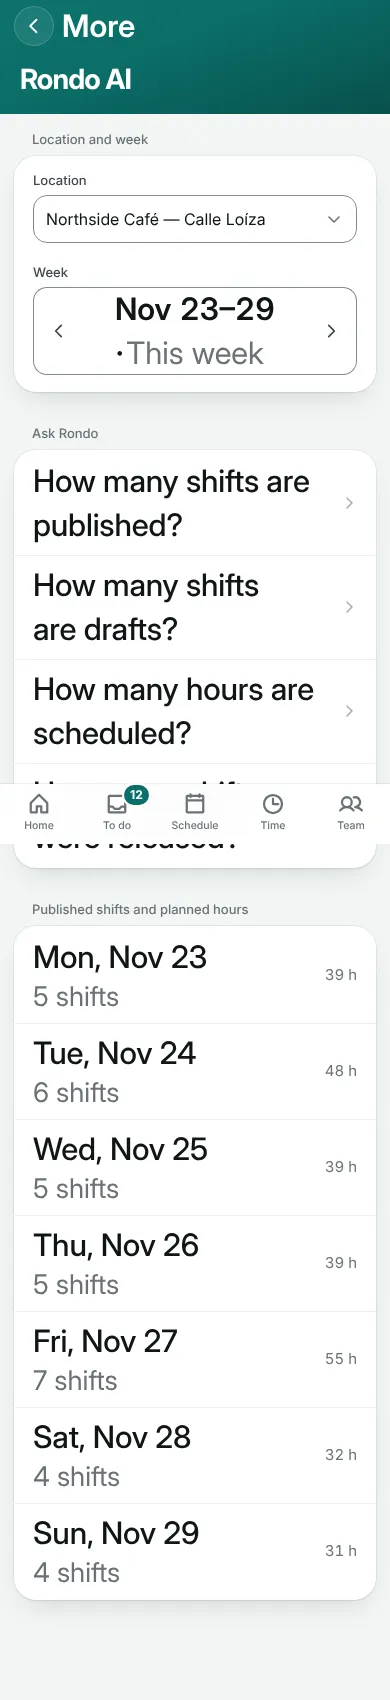
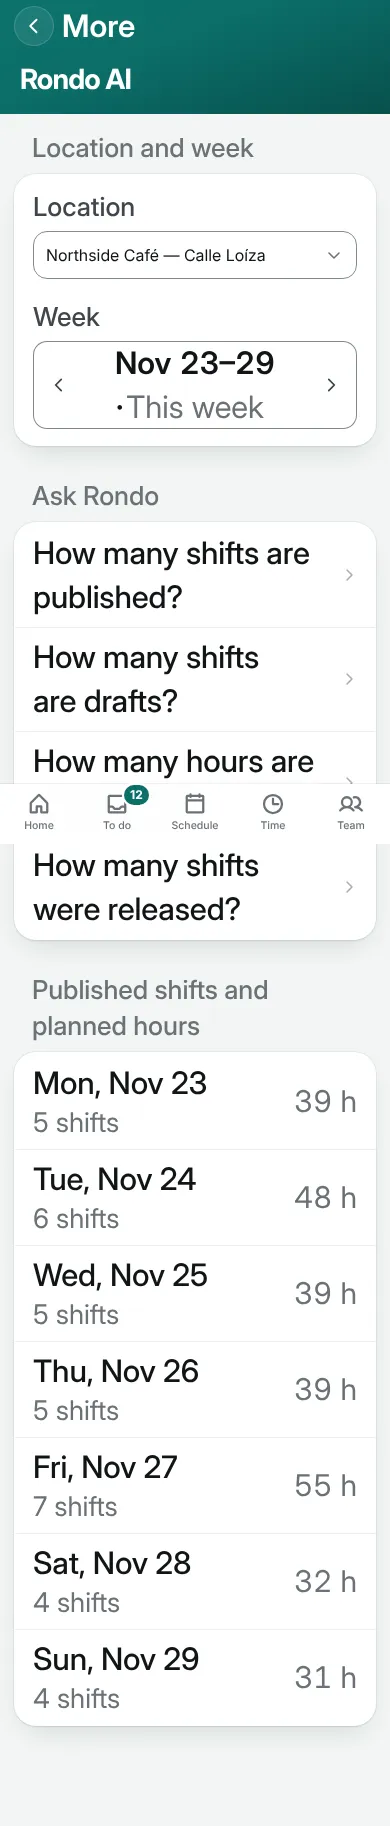
Rondo and Insights at 200% text: captures and report
Claude-Session: https://claude.ai/code/session_01N2UNZF9poagj1ChC5N3ELD

diff --git a/docs/handoffs/2026-11-23-phase2-cloud/reports/rondo.md b/docs/handoffs/2026-11-23-phase2-cloud/reports/rondo.md
@@ -115,3 +115,23 @@ None of items 9–14.
 - Re-captured H1 and H6 (Owner) on `31f06892` at 390, 768, 1440 and 390 with 200% text, plus phone shots at viewport
   height (`H1-o-390-fold.webp`, `H6-o-390-fold.webp`). H6 is the same screen for the company-wide Manager. The H1
   Manager screen didn't change.
+
+## Second follow-up: 200% text (code `addbd028`, `c59a8d5c`, after merge `f0acc3b9`)
+- Kit labels on these pages are now in rem at their current sizes, so they match at 100%. This covers section labels,
+  stat labels and figures, field labels and help, buttons, empty rows and row values. They live in each page's sheet
+  inside `@layer nv-b` (`advisor.css`, `weekly.css`, `knowledge.css`, `business.css`, `reports-corp.css`). At 200% the
+  probe finds no fixed-px text left on H1–H4 or H6. Stat labels wrap instead of cutting off.
+- H5: the period segments wrap to a second row at large text, so the selected pill no longer becomes a tall circle. The
+  period line wraps instead of being cut off. Two small kit sizes stay fixed: the Insights pill "… under plan" (12px,
+  `CorpPill`) and the segment label (20px at 200%).
+- H6: the phone bonus-year menu wraps inside the page. At 390 with 200% text the page is now 390px wide (it was 402px).
+- H1 Owner: "shortfall: 1." keeps the figure on its line (no-break space added in `attentionDetail`).
+- H2: the week field keeps "·" with "This week". On H1 Manager the kit's segment dot already sits with "This week".
+- Not fixed, kit: at 200% the phone band titles ("Weekly plan", "Rondo AI") stay about 26px while body text doubles.
+  That comes from the shared band or nav rules, and I couldn't trace it to a page sheet.
+- Daniel (`OWN-DANI`) isn't captured. With the desk harness he gets "Page not found" on /app/ai-manager, because his
+  one-location access is set up only by the scoped harness (`run-scoped.sh`, `NEVORA_SCAN_LIMITED`), which has no
+  Rondo flags. His Rondo is the same component as Elena's, with the location as fixed text.
+- Captures (production build): Owner H1–H6 and Elena H1, H5 and H6 at 390, 390 viewport-height (`-390-fold`), 768,
+  1440 and 390 with 200% text. Overflow 0 everywhere. Axe 0 except the known Insights band-line false positive at 768
+  and 1440.
